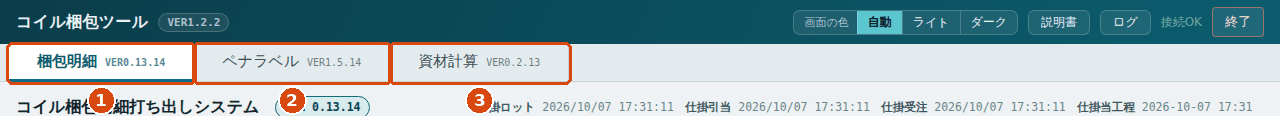
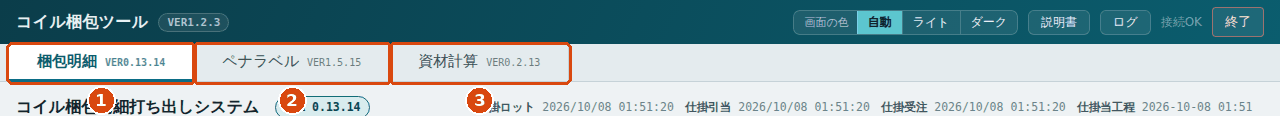
統合 1.2.3: デスクトップ版の印刷を点検・初めて刷るときの既定でも同じ紙面にする
デスクトップ版の窓(WebView2)は Edge と同じ印刷の窓・描き方で刷るが、印刷の設定を
Edge と分けて持つ。Edge で選んであった「余白なし」「背景のグラフィック」は引き継がず、
PC ごとに初めて刷るときは既定(余白は既定・背景のグラフィックなし)になる。

- tools/print_edge_check.py: 本物の紙面ごとに、設定済み(余白なし・背景あり)と
  初めて刷るときの既定(余白は既定・背景なし)を、枚数・紙の大きさと向き・インクの
  1点ずつで比べる。紙面が @page で紙の大きさ・余白0を決めているかも出す
- ペナラベル 1.5.15: 全サイズの印刷ビューだけ、背景のグラフィックが無いとラベルの下の
  小さな字が濃く刷られていた → 設定に関わらず同じ色で刷る(print-color-adjust: exact)。
  ほかの9種類は1点も違わなかった
- docs: デスクトップ版の印刷のブラウザ版との違い
- 説明書の写真(統合画面・ペナラベル)を新しい版で撮り直した

Claude-Session: https://claude.ai/code/session_01SzANNFLBT4btJLa5AqpmH3

diff --git a/modules/packing_pena_label/app/static/css/app.css b/modules/packing_pena_label/app/static/css/app.css
@@ -194,6 +194,10 @@ legend{font-size:11px; color:var(--muted); padding:0 4px}
 .lbl .row .k{width:34px; color:var(--muted)}
 .lbl .row .v{flex:1; font-weight:700}
 .lbl .cellref{font-size:9px; color:#9aa6b2}
+/* 印刷の設定(背景のグラフィックの有無)で紙面を変えない。デスクトップ版の窓は Edge と
+   印刷の設定を分けて持つので、初めて刷るときは既定(背景のグラフィックなし)になる。
+   そのときブラウザは薄い字を濃く刷り直すので、全サイズの台紙だけ見た目が変わっていた */
+.labelsheet{print-color-adjust:exact; -webkit-print-color-adjust:exact}
 
 /* ---------- 印刷 ---------- */
 /* **紙の端から 5mm 以上内側に刷る**(統合版で直した)。プリンターは紙の縁

diff --git a/tools/print_edge_check.py b/tools/print_edge_check.py
@@ -49,6 +49,19 @@ SAFE = 5.0
 TOL = 0.1          # 線の縁のにじみ(アンチエイリアス)ぶん
 CUT_BAND_MM = 1.5  # 真ん中の切り取り線とみなす幅(±)
 
+#: 「初めて刷るときの既定」と「設定済み」を比べるときの解像度・違いとみなす濃さ
+CMP_DPI = 100
+CMP_DIFF = 48
+
+#: 紙面の `@page`(印刷のときに効くもの)を集める
+PAGE_RULES_JS = """() => { const out = [];
+  const walk = (rules) => { for (const r of rules) {
+    if (r.type === 6) out.push(r.style.cssText);
+    else if (r.cssRules && (r.type !== 4 || /print|all/.test(r.media.mediaText))) walk(r.cssRules);
+  } };
+  for (const sh of document.styleSheets) { try { walk(sh.cssRules); } catch (e) {} }
+  return out; }"""
+
 #: 試し刷りで位置を変えない目印(紙の端と重なる)
 CALIBRATION_GUIDES = (".label.guide{outline:none !important; border:none !important}"
                       ".rowline,.edgemark{display:none !important}")
@@ -181,6 +194,23 @@ def _ink(pdf: Path, fitz) -> list:
     return out
 
 
+def _compare(a: Path, b: Path, fitz) -> dict:
+    """2つの PDF が同じ紙面か(枚数・紙の大きさと向き・インクの違い)。"""
+    da, db = fitz.open(str(a)), fitz.open(str(b))
+    sizes = lambda d: [(round(p.rect.width * 25.4 / 72), round(p.rect.height * 25.4 / 72)) for p in d]
+    out = {"枚数": (len(da), len(db)), "紙": (sizes(da), sizes(db)), "違う点": 0.0}
+    if len(da) != len(db) or sizes(da) != sizes(db):
+        return out
+    worst = 0.0
+    for pa, pb in zip(da, db):
+        xa = pa.get_pixmap(dpi=CMP_DPI, alpha=False, colorspace=fitz.csGRAY).samples
+        xb = pb.get_pixmap(dpi=CMP_DPI, alpha=False, colorspace=fitz.csGRAY).samples
+        diff = sum(1 for u, v in zip(xa, xb) if abs(u - v) > CMP_DIFF)
+        worst = max(worst, diff * 100.0 / max(1, len(xa)))
+    out["違う点"] = worst
+    return out
+
+
 def main(argv=None) -> int:
     ap = argparse.ArgumentParser(description=__doc__.splitlines()[0])
     ap.add_argument("--keep", help="作った PDF を残すフォルダ")
@@ -209,11 +239,30 @@ def main(argv=None) -> int:
                 pg = ctx.new_page()
                 res = pg.goto(base + path, wait_until="load")
                 pg.wait_for_timeout(1200)
-                pg.add_style_tag(content="@page { margin: 0 !important; }" + hide)   # 余白なし
+                rules = pg.evaluate(PAGE_RULES_JS)
+                if hide:
+                    pg.add_style_tag(content=hide)
+                # 初めて刷る PC の既定(デスクトップ版の窓は Edge と印刷の設定を分けて持つので、
+                # Edge で「余白なし」「背景のグラフィック」を選んであっても引き継がない):
+                # 余白は既定(紙面の @page のまま)・背景のグラフィックなし
+                fresh = out_dir / ("fresh_%02d.pdf" % n)
+                pg.pdf(path=str(fresh), prefer_css_page_size=True, print_background=False, format="A4")
+                pg.add_style_tag(content="@page { margin: 0 !important; }")   # 余白なし
                 pdf = out_dir / ("edge_%02d.pdf" % n)
                 pg.pdf(path=str(pdf), prefer_css_page_size=True, print_background=True, format="A4")
                 pg.close()
                 print("■ %s  %s  HTTP %s" % (name, path.split("?")[0], res.status if res else "-"))
+                declared = " / ".join(rules) or "(@page なし)"
+                has_zero = any(re.search(r"margin:\s*0(px|mm)?\s*(;|$)", r) for r in rules)
+                has_size = any("size:" in r for r in rules)
+                cmp = _compare(pdf, fresh, fitz)
+                same = (cmp["枚数"][0] == cmp["枚数"][1] and cmp["紙"][0] == cmp["紙"][1]
+                        and cmp["違う点"] < 0.01)
+                ok_decl = has_zero and has_size
+                bad += 0 if (same and ok_decl) else 1
+                print("   @page: %s %s" % (declared, "OK" if ok_decl else "★ 紙の大きさ・余白0 を決めていない"))
+                print("   初めて刷る既定(余白は既定・背景のグラフィックなし)と比べて: 枚数 %s 紙 %s 違う点 %.3f%% %s" % (
+                    cmp["枚数"][1], cmp["紙"][1][:1], cmp["違う点"], "同じ" if same else "★ 違う"))
                 for i, p in enumerate(_ink(pdf, fitz)):
                     if p is None:
                         print("   %d枚目: 白紙" % (i + 1))
@@ -230,7 +279,7 @@ def main(argv=None) -> int:
         cleanup()
         srv.shutdown()
     print("=" * 60)
-    print("5mm 未満: %d 枚" % bad + ("" if args.keep else "(PDF は %s)" % out_dir))
+    print("5mm 未満・初めて刷る既定で違う紙面: %d 件" % bad + ("" if args.keep else "(PDF は %s)" % out_dir))
     return 1 if bad else 0
 
 

diff --git a/modules/packing_pena_label/app/config.py b/modules/packing_pena_label/app/config.py
@@ -18,7 +18,7 @@ from typing import Any, Dict, List, Optional
 #: アプリケーションID（ローカル領域のフォルダ名、多重起動判定、/api/health の識別子）
 APP_ID = "PackingPenaLabel"
 APP_NAME = "梱包ペナ ラベル・風袋計算"
-APP_VERSION = "1.5.14"
+APP_VERSION = "1.5.15"
 #: 版を切った日。画面のバージョン表示に添える。
 #: **中身を直したら必ずここを上げる**。上げ忘れると、
 #: 現場が「新しいファイルに差し替わったか」を画面から判断できない。

diff --git a/docs/変更履歴.md b/docs/変更履歴.md
@@ -22,6 +22,26 @@
 
 ## 履歴
 
+### 1.2.3
+
+**デスクトップ版(ブラウザではない窓)で印刷が変わらないかを点検した**(現場の問い: ブラウザではない窓に
+なると印刷への影響はあるのか)。
+
+- 印刷の仕組みはブラウザ版と同じ: 窓(WebView2)は Edge と同じ印刷の窓・同じ描き方で刷る。
+  `window.print()` は WebView2 がそのまま受ける(窓の部品 wry の Windows の印刷も `window.print()` を
+  呼ぶだけであることをソースで確かめた)。Ctrl+P も効く。印刷プレビューは 1100×900 の別の窓に開く
+- **違うのは印刷の設定の置き場所だけ。** 窓は Edge と設定を分けて持つので、Edge で選んであった
+  「余白なし」「背景のグラフィック」などは引き継がず、PC ごとに初めて刷るときは既定(余白は既定・
+  背景のグラフィックなし)になる。2回目からはその窓で選んだ設定を覚える
+- そこで、**初めて刷るときの既定でも、設定済みと同じ紙面になるか**を本物の紙面 10種類(19枚)で
+  比べた(`tools/print_edge_check.py` に足した。枚数・紙の大きさと向き・インクの1点ずつ)。
+  どの紙面も `@page` で紙の大きさ・向きと余白0を決めているので、余白・向き・ずれは変わらない
+  (余白0なのでヘッダー・フッター(日付や URL)も刷られない)。
+  **ペナラベルの全サイズの印刷ビューだけ、小さな字が濃く刷られた**(背景のグラフィックが無いと
+  ブラウザが薄い字を濃く刷り直す)→ 設定に関わらず同じ色で刷るようにした(ペナラベル 1.5.15)。
+  ほかの9種類は1点も違わなかった。紙の端から5mm以上内側もすべて満たす
+- 実機で見ること(変わらず): 実際に紙が出ること・プリンターの選び方
+
 ### 1.2.2
 
 移行後の一通りの再点検(現場の依頼: 別のリポジトリのツールが移行後に不具合だらけだった。こちらも

diff --git a/modules/packing_pena_label/docs/変更履歴.md b/modules/packing_pena_label/docs/変更履歴.md
@@ -16,7 +16,18 @@
 
 ---
 
-## 1.5.14 — 状態DBが壊れていても起動を続ける(コイル梱包ツール 1.2.2)
+## 1.5.15 — 全サイズの印刷ビューを印刷の設定に関わらず同じ紙面にする(コイル梱包ツール 1.2.3)
+
+1. 全サイズの印刷ビューのラベルの下の小さな字(サイズ)が、印刷の窓で「背景のグラフィック」を
+   切っていると濃く刷られていたのを、設定に関わらず同じ色で刷るようにしました(ブラウザは
+   背景のグラフィックが無いとき、薄い字を濃く刷り直す)。消える・ずれるものはありませんでした
+2. デスクトップ版の窓は Edge と印刷の設定を分けて持つので、PC ごとに初めて刷るときは既定の設定
+   (背景のグラフィックなし)になります。ほかの紙面(ラベル台紙・風袋計算・羅列計算・試し刷り)は
+   もともと設定に関わらず同じ紙面になることを確かめました
+
+---
+
+状態DBが壊れていても起動を続ける(コイル梱包ツール 1.2.2)
 
 1. 状態DB(`state.sqlite3`)が壊れていたら(書いている最中の停電・ディスクの不調など)、**横へ退けて
    (消さずに)作り直し、起動を続けます。** これまでは `file is not a database` で
